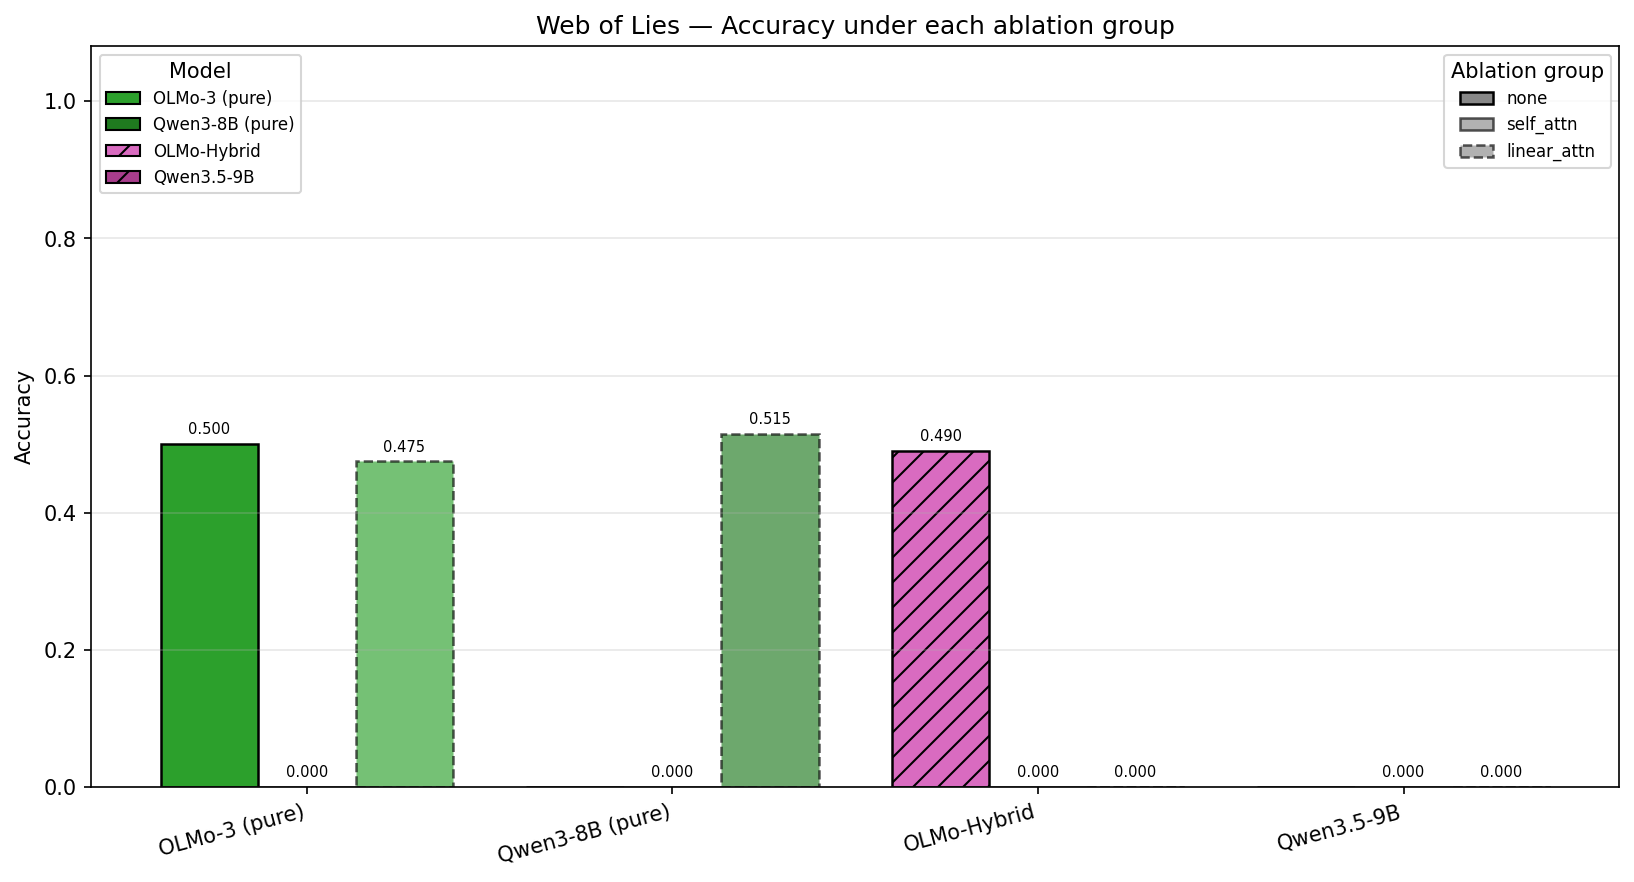
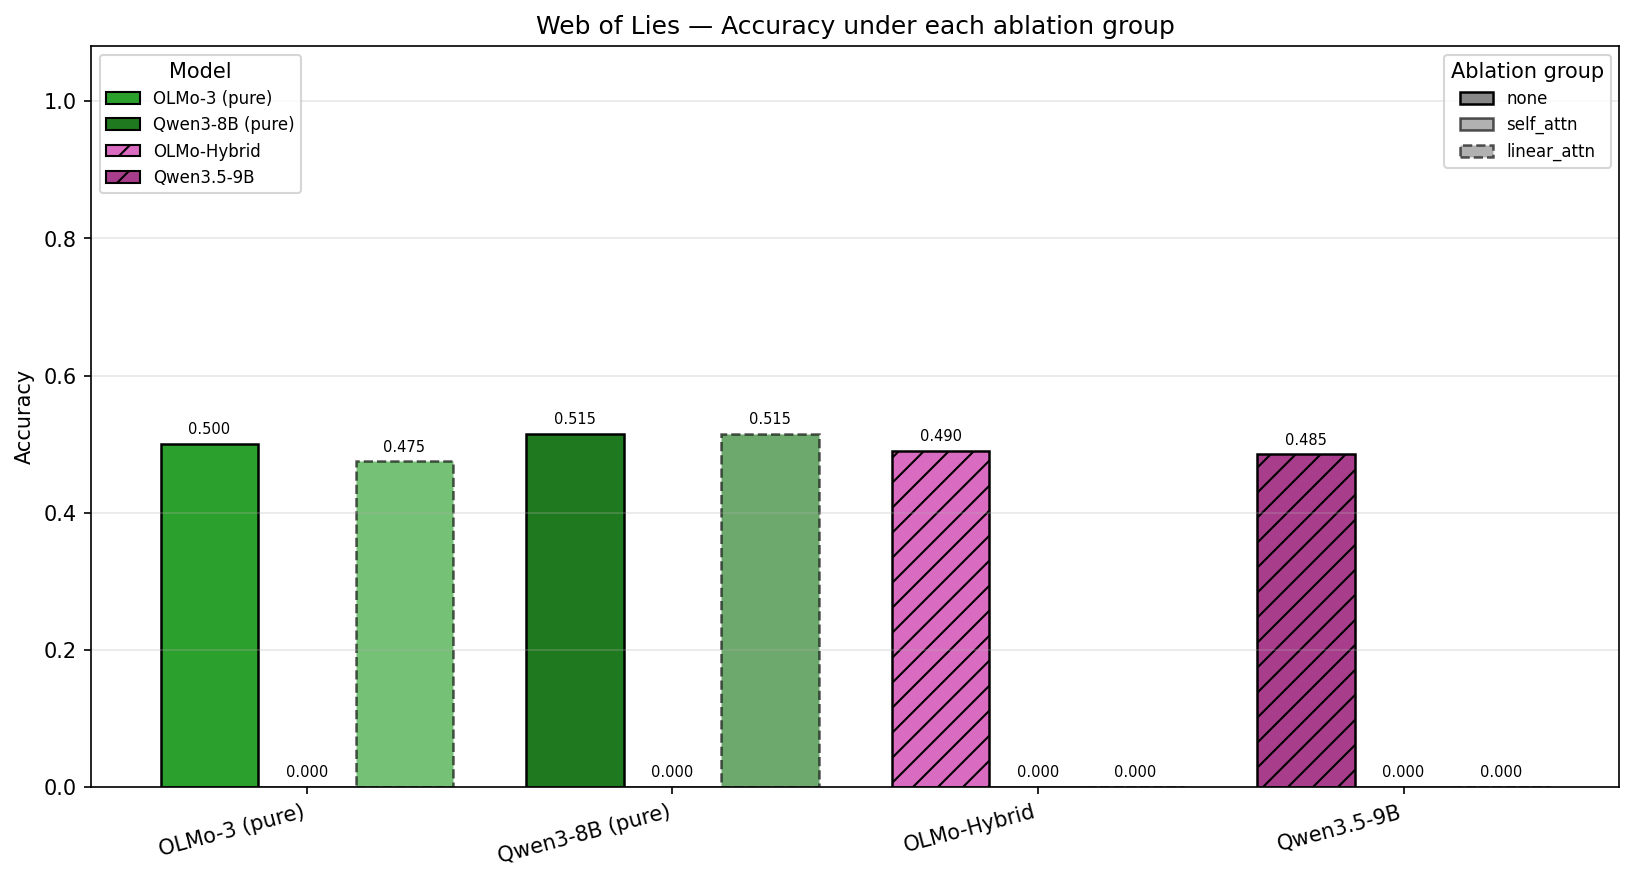
new figures

Changed region(s): [[0.3121, 0.4592, 0.4058, 0.9184], [0.7491, 0.4898, 0.8427, 0.9184]]

diff --git a/Tasks/State-Tracking/web-of-lies/output/web_of_lies_summary.md b/Tasks/State-Tracking/web-of-lies/output/web_of_lies_summary.md
@@ -5,18 +5,26 @@
 | Model | none | self_attn | linear_attn |
 |-------|------|-----------|-------------|
 | OLMo-3 (pure) | 0.500 | 0.000 | 0.475 |
-| Qwen3-8B (pure) | — | 0.000 | 0.515 |
+| Qwen3-8B (pure) | 0.515 | 0.000 | 0.515 |
 | OLMo-Hybrid | 0.490 | 0.000 | 0.000 |
-| Qwen3.5-9B | — | 0.000 | 0.000 |
+| Qwen3.5-9B | 0.485 | 0.000 | 0.000 |
 
 ## Accuracy by answer (no ablation)
 
 | Model | yes | no | overall |
 |-------|-----|----|---------|
 | OLMo-3 (pure) | 0.980 | 0.020 | 0.500 |
-| Qwen3-8B (pure) | — | — | — |
+| Qwen3-8B (pure) | 0.250 | 0.780 | 0.515 |
 | OLMo-Hybrid | 0.640 | 0.340 | 0.490 |
-| Qwen3.5-9B | — | — | — |
+| Qwen3.5-9B | 0.360 | 0.610 | 0.485 |
+
+## Accuracy by chain depth (no ablation)
+| Model | depth 5 |
+|-------|--------|
+| OLMo-3 (pure) | 0.500 |
+| Qwen3-8B (pure) | 0.515 |
+| OLMo-Hybrid | 0.490 |
+| Qwen3.5-9B | 0.485 |
 
 ## Layerwise ablation — top-3 most-impactful layers per model
 
@@ -32,12 +40,13 @@ baseline accuracy: 0.500
 | 12 | self_attn | 0.470 | 0.030 |
 
 ### Qwen3-8B (pure)
+baseline accuracy: 0.515
 
 | layer_idx | layer_type | accuracy | drop |
 |-----------|------------|----------|------|
-| 32 | self_attn | 0.475 | — |
-| 15 | self_attn | 0.495 | — |
-| 28 | self_attn | 0.495 | — |
+| 32 | self_attn | 0.475 | 0.040 |
+| 15 | self_attn | 0.495 | 0.020 |
+| 28 | self_attn | 0.495 | 0.020 |
 
 ### OLMo-Hybrid
 baseline accuracy: 0.490
@@ -49,12 +58,13 @@ baseline accuracy: 0.490
 | 22 | linear_attn | 0.460 | 0.030 |
 
 ### Qwen3.5-9B
+baseline accuracy: 0.485
 
 | layer_idx | layer_type | accuracy | drop |
 |-----------|------------|----------|------|
-| 0 | linear_attn | 0.000 | — |
-| 3 | self_attn | 0.000 | — |
-| 7 | self_attn | 0.155 | — |
+| 0 | linear_attn | 0.000 | 0.485 |
+| 3 | self_attn | 0.000 | 0.485 |
+| 7 | self_attn | 0.155 | 0.330 |
 
 ## Activation patching — top-3 layers by recovery
 
